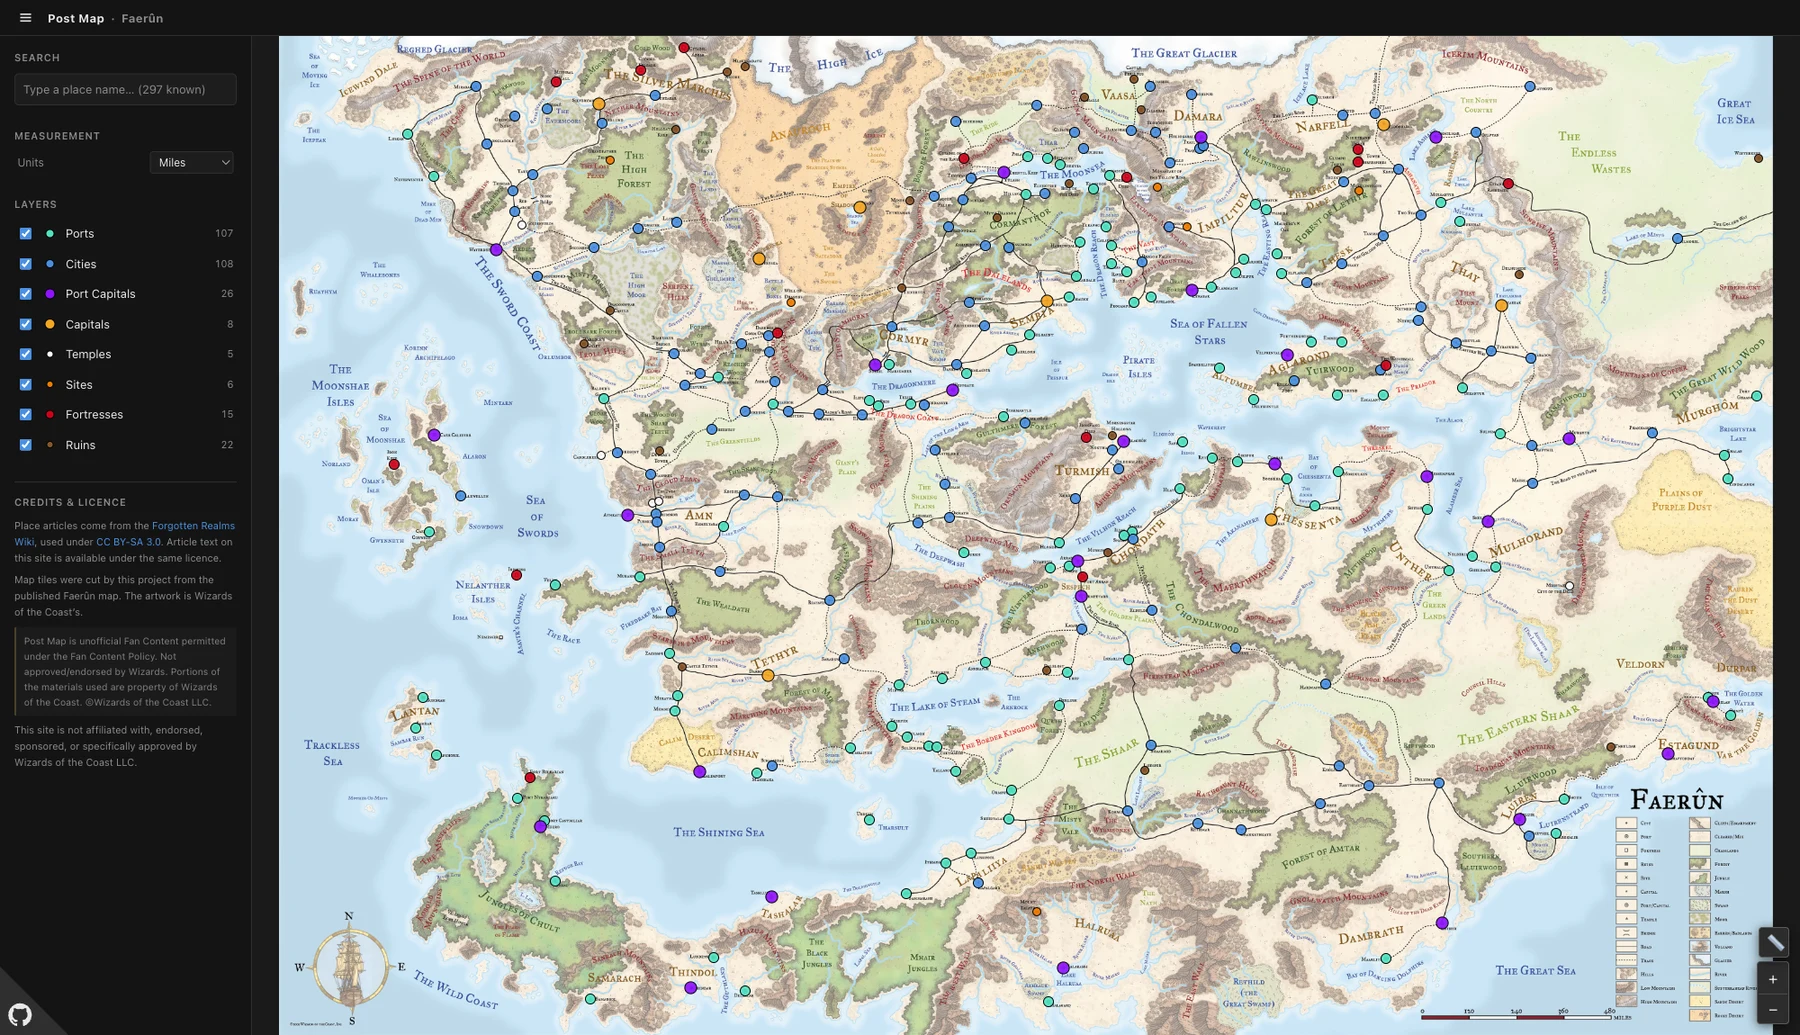
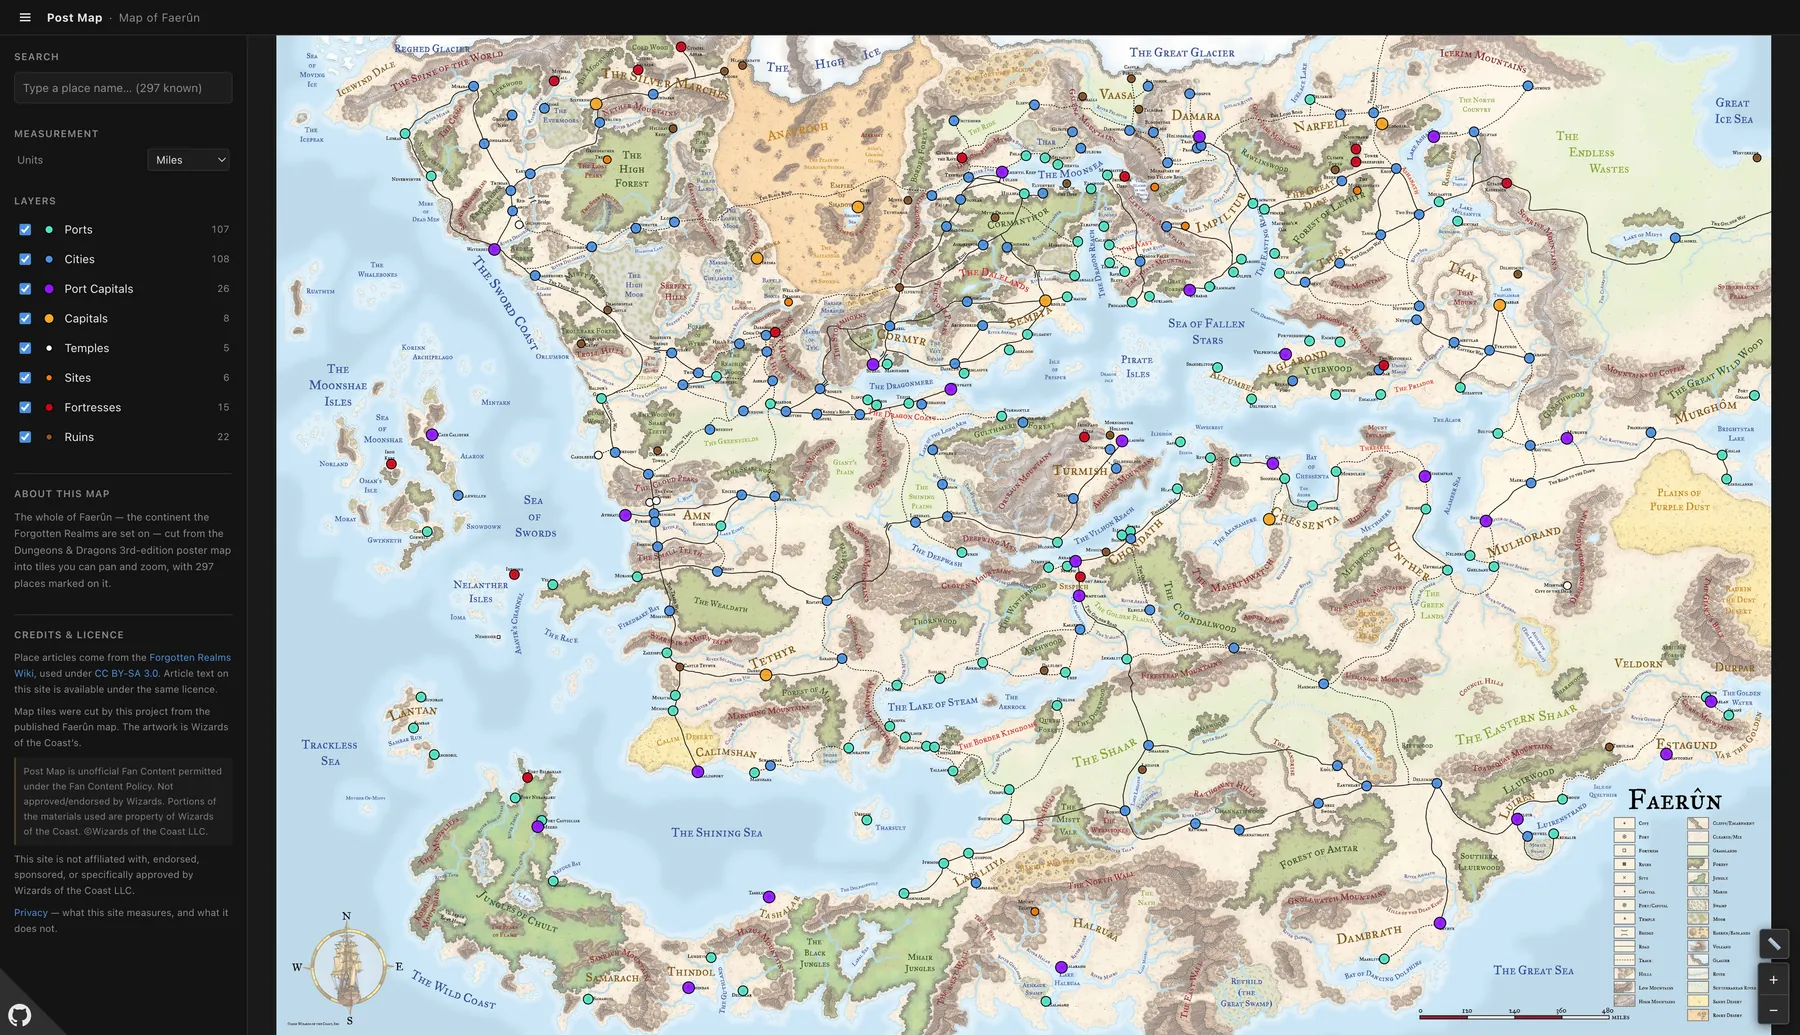
docs: retake the screenshot and point the links at the live domain
The screenshot predated the topbar title, the about paragraph and the poster.
Retaken at 2035x1170 on a 2x scale factor and downsampled to the committed
1800x1035, so the map labels stay legible at README width.

The viewport is taller than the old one on purpose. At the previous height
the sidebar overflowed and its credits ran underneath the GitHub corner —
the panel's 92px bottom padding only clears that corner once scrolled to the
end, and the about paragraph made the content tall enough to notice.

README and PRIVACY.md now point at postmap.findquinn.com, and the README
links the live site at all, which it never did.

diff --git a/README.md b/README.md
@@ -4,13 +4,15 @@ An interactive map of Faerûn for tabletop D&D — pan and zoom a tiled
 3rd-edition map, find any of 297 marked places, measure travel distances, and
 read that place's Forgotten Realms Wiki article without leaving the map.
 
+**→ [postmap.findquinn.com](https://postmap.findquinn.com)**
+
 [![CI](https://github.com/nooikko/post-map/actions/workflows/ci.yml/badge.svg)](https://github.com/nooikko/post-map/actions/workflows/ci.yml)
 [![Licence: MIT](https://img.shields.io/badge/licence-MIT-blue.svg)](LICENSE)
 [![Fan Content](https://img.shields.io/badge/Wizards-Fan%20Content%20Policy-orange.svg)](https://company.wizards.com/en/legal/fancontentpolicy)
 
 Not affiliated with, endorsed, or approved by Wizards of the Coast.
 
-![The whole of Faerûn, with all 297 places marked and the category layers, search, and licence notices in the sidebar](docs/screenshot.webp)
+![The whole of Faerûn, with all 297 places marked and the search box, unit picker, category layers, and licence notices in the sidebar](docs/screenshot.webp)
 
 ## Features
 
@@ -22,6 +24,8 @@ Not affiliated with, endorsed, or approved by Wizards of the Coast.
 - **Distance measurement** in miles or kilometres, scaled from the source map.
 - **Search** across every marked place.
 - **Shareable links** — every place has its own URL.
+- **Built for a finger too** — on touch the sidebar becomes a bottom sheet you
+  drag down, and the map keeps the whole screen.
 - **Works offline-ish** — no database, no accounts, no cookies, and no runtime
   API calls beyond anonymous visitor counts. See [Privacy](PRIVACY.md).
 
@@ -54,9 +58,16 @@ pnpm start
 | `pnpm build` | Prerender the map and all 297 place pages |
 | `pnpm start` | Serve the production build |
 | `pnpm typecheck` | `tsc --noEmit` |
-| `pnpm notice` | Regenerate `NOTICE` from `lib/attribution.ts` |
-| `pnpm notice:check` | Fail if `NOTICE` has drifted |
+| `pnpm licence` | Regenerate `NOTICE`, `REUSE.toml` and `LICENSES/` from `lib/attribution.ts` and `lib/licence-scope.ts` |
+| `pnpm licence:check` | Fail if any of those have drifted; CI runs this |
+| `pnpm images` | Recompose `public/faerun-map*` from the tile pyramid |
 | `pnpm fetch:redirects` | Top up the wiki mirror; `--force` re-fetches |
+
+`licence` is a pair of narrower scripts — `notice` and `reuse`, each with a
+`:check` variant — for when only one of the generated files is in question.
+
+`images` is not part of the build. Its two outputs are committed alongside the
+tiles they are cut from, so it only needs running when the pyramid changes.
 
 </details>
 
@@ -83,59 +94,29 @@ reporting rather than a public issue.
 The site counts visitors and page-load timings with Vercel Web Analytics and
 Speed Insights, on their free tier. No cookies, no accounts, no third-party
 trackers, and nothing typed into the search box leaves the browser. The full
-policy is at [post-map.vercel.app/privacy](https://post-map.vercel.app/privacy);
-see [PRIVACY.md](PRIVACY.md).
+policy is at
+[postmap.findquinn.com/privacy](https://postmap.findquinn.com/privacy); see
+[PRIVACY.md](PRIVACY.md).
 
 ## Licensing
 
-MIT covers this repository **except** for the paths below, each of which is
-governed by its own terms. Where several apply at once, the most restrictive
-governs.
+The code is MIT. The map artwork, the mirrored article text and the marker data
+are not — each carries its own terms. **[NOTICE](NOTICE) is the authoritative
+statement of which is which**, and worth reading before you fork: two of those
+conditions travel with the material rather than with this repository.
 
-| Path | Terms |
-|---|---|
-| Everything not listed below | MIT — see [LICENSE](LICENSE) |
-| `public/tiles/**`, `docs/screenshot.webp` | Wizards of the Coast, under the Fan Content Policy |
-| `public/data/Faerun/wiki/**` | CC BY-SA 3.0, credited on every article view |
-| `public/data/Faerun/*.json` | Origin untraceable — no claim asserted, no permission granted |
+`NOTICE`, [REUSE.toml](REUSE.toml) and [LICENSES/](LICENSES) are generated from
+`lib/licence-scope.ts` — change that module and run `pnpm licence`.
 
-[REUSE.toml](REUSE.toml) carries the same split in machine-readable form,
-[LICENSES/](LICENSES) holds the text of each licence named above, and
-[NOTICE](NOTICE) is the long-form prose version.
-
-Two things are easy to get wrong when forking. Share-alike travels with an
-*adaptation* of the article text rather than with that directory, so anything
-built out of it carries CC BY-SA 3.0 too — a prebuilt search index most of all,
-since by then it no longer looks like text. And the Fan Content Policy requires
-that the site stay free to access — no paywall, subscription, or gated download.
-It is revocable permission rather than a licence and can be withdrawn at any
-time. Both apply to you as much as to this project.
-
-### If you hold rights in something used here
-
-This project mirrors material it does not own. If you want something credited
-differently, credited where it currently is not, or removed altogether, please
-open a [rights holder request](../../issues/new?template=rights_holder.yml), or
-send it [privately](../../security/advisories/new) if you would rather not file
-a public issue.
-
-No proof of ownership is demanded up front and no particular form is required.
-These requests are treated as higher priority than any feature or bug here,
-because they are obligations rather than preferences.
+If you hold rights in something used here and want it credited differently or
+removed, open a [rights holder request](../../issues/new?template=rights_holder.yml)
+or send it [privately](../../security/advisories/new). No proof of ownership is
+demanded up front, and these take priority over any feature or bug here.
 
 ## Credits
 
-Place articles come from the [Forgotten Realms Wiki](https://forgottenrealms.fandom.com/),
-used under [CC BY-SA 3.0](https://creativecommons.org/licenses/by-sa/3.0/).
-
-The map tiles are this project's own cut of the published Faerûn map. The artwork
-in them is Wizards of the Coast's — see [docs/tile-pipeline.md](docs/tile-pipeline.md)
-for how the pyramid was produced.
-
-The marker data — which 297 places are pinned, and where they sit — came from a
-forum that went offline years ago. The domain now serves an unrelated site and
-the data has circulated since with no attribution attached to it, so there is
-nobody left to credit. This project claims nothing in it. If you compiled it, or
-you know who did, please get in touch.
-
-Full attributions are in [NOTICE](NOTICE).
+Place articles come from the [Forgotten Realms Wiki](https://forgottenrealms.fandom.com/).
+The map artwork is Wizards of the Coast's; [docs/tile-pipeline.md](docs/tile-pipeline.md)
+covers how this project cut it into tiles. The marker data came from a forum that
+went offline years ago with no attribution attached to it — if you compiled it,
+or know who did, please get in touch.

diff --git a/PRIVACY.md b/PRIVACY.md
@@ -1,7 +1,7 @@
 # Privacy
 
 The privacy policy is a page on the site itself:
-**https://post-map.vercel.app/privacy** — also reachable from the
+**https://postmap.findquinn.com/privacy** — also reachable from the
 *Credits & licence* block at the bottom of the sidebar.
 
 That page is the canonical wording. It is not reproduced here, because a second
